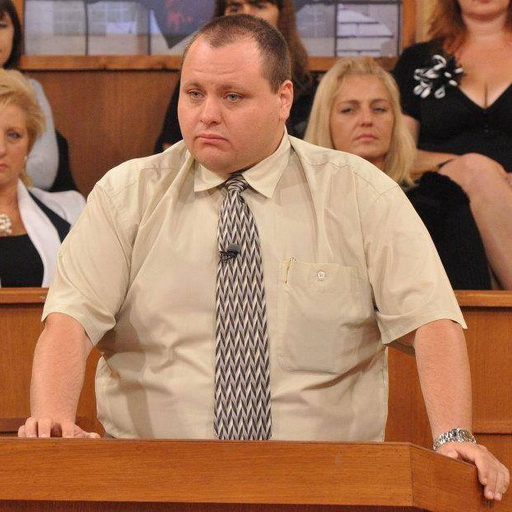
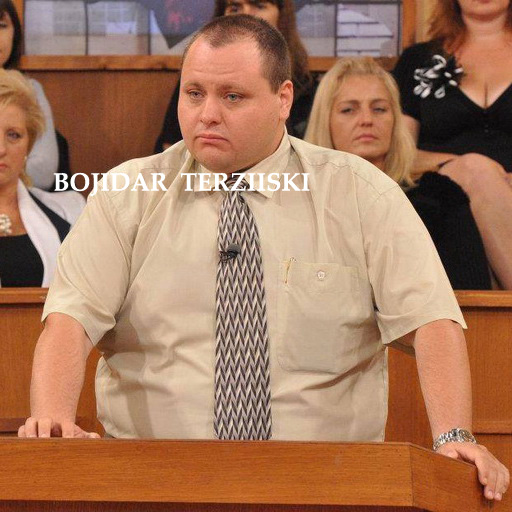
message "turn your device horizontally" introduced; names of lawyers added to their images;

Changed region(s): [[0.0938, 0.3125, 0.625, 0.375]]

diff --git a/css/style.css b/css/style.css
@@ -164,18 +164,24 @@ body {
     visibility: visible; }
   @media only screen and (max-width: 56.25em) {
     .lawyers {
-      font-size: .65rem; } }
+      grid-template-columns: 1fr minmax(16rem, 50vh) 1fr; } }
   @media only screen and (max-width: 43.75em) {
     .lawyers {
-      font-size: .55rem; } }
+      grid-template-rows: 2.25rem 80vh 2.25rem;
+      grid-template-columns: 1fr minmax(14rem, 45vh) 1fr;
+      font-size: 1rem; } }
   .lawyers__about {
     grid-row: 2/3;
     grid-column: 2/3;
     display: grid;
     grid-row-gap: 1rem;
+    overflow: auto;
     opacity: 0;
     visibility: hidden;
     transition: all 0.5s cubic-bezier(0.44, -0.77, 0.57, 1.89); }
+    @media only screen and (max-width: 56.25em) {
+      .lawyers__about {
+        grid-row-gap: 0; } }
     .lawyers__about--animate {
       opacity: 1;
       visibility: visible;
@@ -186,6 +192,9 @@ body {
       text-transform: uppercase;
       padding: .5rem 0;
       /*so it is in the same line with the MENU*/ }
+      @media only screen and (max-width: 43.75em) {
+        .lawyers__about > h2 {
+          font-size: 1.2rem; } }
 
 .loading {
   position: fixed;
@@ -486,14 +495,14 @@ body {
   .designer a:hover {
     transform: scale(1.2); }
 
-.cssGrid-not-supported {
+.cssGrid-not-supported, .portrait {
   position: fixed;
   top: 0;
   height: 100%;
   width: 100%;
   background: #000000;
   z-index: 10000; }
-  .cssGrid-not-supported p {
+  .cssGrid-not-supported p, .portrait p {
     position: absolute;
     top: 50%;
     left: 50%;
@@ -504,7 +513,7 @@ body {
     height: 16rem;
     background: url("../img_desktop/paper.jpg") no-repeat;
     background-size: 100% 100%; }
-    .cssGrid-not-supported p span {
+    .cssGrid-not-supported p span, .portrait p span {
       position: absolute;
       top: 50%;
       transform: translateY(-50%);

diff --git a/js/main.js b/js/main.js
@@ -23,6 +23,7 @@ let mixer,
     lawyers__about = document.querySelector('.lawyers__about--us'),
     services__mg = document.querySelector('.magnify'),
     services__mg_remove = document.querySelector('.magnify__glass-remove'),
+    portrait = document.querySelector('.portrait'),
     timeCandle = 0,
     targetListServices = [];
 
@@ -31,7 +32,6 @@ const HEIGHT = window.innerHeight;
 const windowHalfX = window.innerWidth / 2;
 const windowHalfY = window.innerHeight / 2;
 const WIDTH_MG = HEIGHT_MG = document.querySelector(".magnify__glass").clientHeight;
-
 
 const scene = new THREE.Scene();
 const camera = new THREE.PerspectiveCamera( 40, WIDTH/HEIGHT, 0.1, 3000 ); //camera.setLens(24); camera.setFov(40); camera.setZoom(1);
@@ -1132,11 +1132,17 @@ function onWindowResize() {
     const height = window.innerHeight;
 
     if(width/height > 3) return;  //so it doesnt show surrounding models when screen too wide and not high enough;
+    if(width < height) {
+        portrait.style.zIndex = 10000;
+        return;
+    }
 
+    portrait.style.zIndex = -100;
     camera.aspect = width/height;  //doesn't work with WIDTH/HEIGHT !
     camera.updateProjectionMatrix();
     renderer.setSize( width, height ); //doesn't work with WIDTH/HEIGHT !
     cssRenderer.setSize( width, height );
+
 }
 
 function addGoogleMapScript( src, callback) {
@@ -1504,7 +1510,7 @@ function muteUnmute () {
 }
 
 //run the app only if CSS grid is supported:
-if( getComputedStyle(document.querySelector('.cssGrid-not-supported')).getPropertyValue('display') == 'none' ) {
+if( getComputedStyle(document.querySelector('.cssGrid-not-supported')).getPropertyValue('display') == 'none') {
     init()
     .then(() => {
         render();

diff --git a/sass/components/_lawyers.scss b/sass/components/_lawyers.scss
@@ -23,10 +23,12 @@
     }
 
     @include respond(tab-port) {
-        font-size: .65rem;
+        grid-template-columns: 1fr minmax(16rem, 50vh) 1fr;
     }
     @include respond(phone) {
-        font-size: .55rem;
+        grid-template-rows: 2.25rem 80vh 2.25rem;
+        grid-template-columns: 1fr minmax(14rem, 45vh) 1fr;
+        font-size: 1rem;
     }
 
     &__about {
@@ -35,9 +37,15 @@
         display: grid;
         grid-row-gap: 1rem;
 
+        overflow: auto;
+
         opacity: 0;
         visibility: hidden;
         transition: all .5s cubic-bezier(.44,-0.77,.57,1.89);
+
+        @include respond(tab-port) {
+            grid-row-gap: 0;
+        }
 
         &--animate {
             opacity: 1;
@@ -50,6 +58,10 @@
             font-weight: initial;
             text-transform: uppercase;
             padding: .5rem 0; /*so it is in the same line with the MENU*/
+
+            @include respond(phone) {
+                font-size: 1.2rem;
+            }
         }
     }
 }

diff --git a/index.html b/index.html
@@ -27,6 +27,7 @@
 
 <body>
   <div class="cssGrid-not-supported"><p><span>Please update your browser.</span></p></div>
+  <div class="portrait"><p><span>Please turn your device horizontally.</span></p></div>
 
   <div class="menu">
       <div class="menu__logo clickable">

diff --git a/sass/components/_menu.scss b/sass/components/_menu.scss
@@ -184,9 +184,9 @@
     }
 }
 
-.cssGrid-not-supported {
+.cssGrid-not-supported, .portrait {
     position: fixed;
-    top:0;
+    top: 0;
     height: 100%;
     width: 100%;
     background: $color-black;
